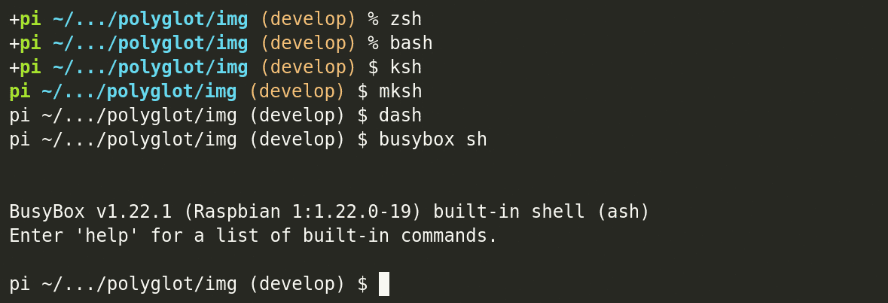
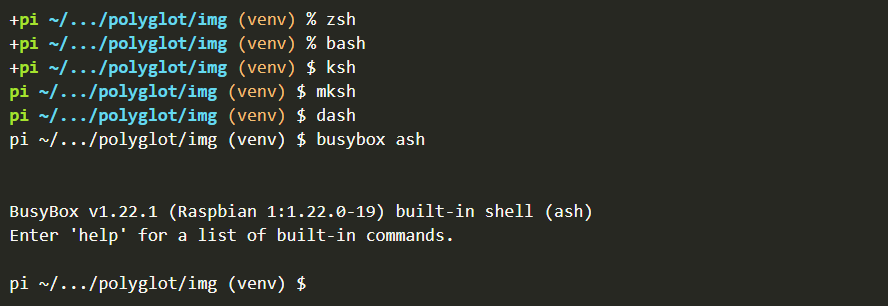
Documentation and images

Changed region(s): [[0.0, 0.0297, 0.5473, 0.505], [0.0, 0.6535, 0.7297, 0.802], [0.0, 0.8911, 0.4561, 0.9802]]

diff --git a/README.md b/README.md
@@ -15,10 +15,11 @@ The **Polyglot Prompt** is a dynamic prompt for `zsh`, `bash`, `ksh93`, `mksh`, 
 * an abbreviated path
 * the Git branch and status
 * the exit status of the last command, if it was not zero
+* any virtual environment created with `virtualenv`, `venv`, `pipenv`, `poetry`, or `conda`
 
 ![Polyglot Prompt demo](img/demo.gif)
 
-*Note: There is now support for color in `mksh` and `pdksh`.*
+*Note: There is also support for color in `pdksh`.*
 
 ## Table of Contents
 
@@ -28,6 +29,7 @@ The **Polyglot Prompt** is a dynamic prompt for `zsh`, `bash`, `ksh93`, `mksh`, 
 - [Abbreviated Paths](#abbreviated-paths)
 - [Git Branch and Status](#git-branch-and-status)
 - [Exit Status](#exit-status)
+- [Virtual Environments](#virtual-environments)
 - [Kubernetes Integration](#kubernetes-integration)
 - [Enabling `vi` editing mode in `zsh` and `bash`](#enabling-vi-editing-mode-in-zsh-and-bash)
 
@@ -109,6 +111,12 @@ Untracked | ?
 If the exit status of the most recently executed command is other than zero (zero indicating success), the exit status will be displayed to the left of the prompt:
 
 ![Exit status displayed in `zsh`, `bash`, and `ksh`](img/exit-status.png)
+
+## Virtual Environments
+
+The Polyglot Prompt will display any active virtual environment created with `virtualenv`, `venv`, `pipenv`, `poetry`, or `conda` at the beginning of the prompt:
+
+![Virtual environments](img/venv.png)
 
 ## Kubernetes Integration
 
